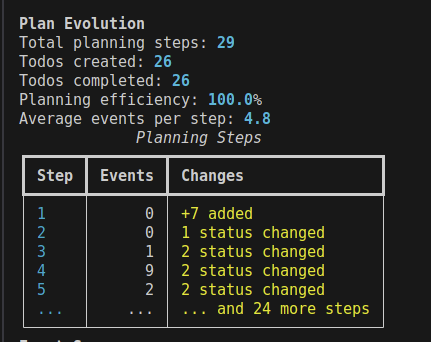
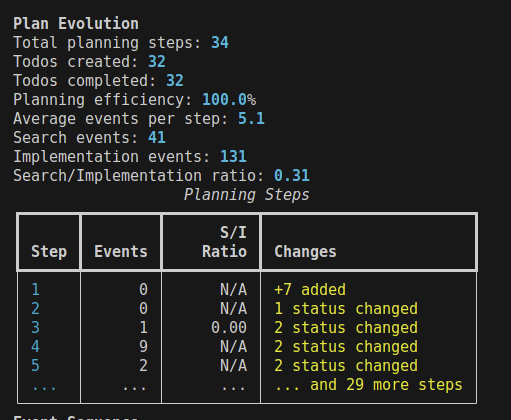
Add naive search to impl ratio based on guessed search tools, excluding custom mcp

Changed region(s): [[0.0, 0.0, 0.935, 1.0]]

diff --git a/src/slopometry/plan_analyzer.py b/src/slopometry/plan_analyzer.py
@@ -4,11 +4,33 @@ import json
 from datetime import datetime
 from typing import Any
 
-from .models import PlanEvolution, PlanStep, TodoItem
+from .models import PlanEvolution, PlanStep, TodoItem, ToolType
 
 
 class PlanAnalyzer:
     """Analyzes TodoWrite events to track plan evolution."""
+    
+    # Define search vs implementation tool categorization
+    SEARCH_TOOLS = {
+        ToolType.GREP, ToolType.GLOB, ToolType.WEB_SEARCH, ToolType.WEB_FETCH,
+        ToolType.READ, ToolType.LS, ToolType.TASK, ToolType.TODO_READ,
+        ToolType.NOTEBOOK_READ, ToolType.MCP_IDE_GET_DIAGNOSTICS,
+        ToolType.MCP_IDE_GET_WORKSPACE_INFO, ToolType.MCP_IDE_GET_FILE_CONTENTS,
+        ToolType.MCP_IDE_SEARCH_FILES, ToolType.MCP_FILESYSTEM_READ,
+        ToolType.MCP_FILESYSTEM_LIST, ToolType.MCP_DATABASE_QUERY,
+        ToolType.MCP_DATABASE_SCHEMA, ToolType.MCP_WEB_SCRAPE,
+        ToolType.MCP_WEB_SEARCH, ToolType.MCP_GITHUB_GET_REPO,
+        ToolType.MCP_GITHUB_LIST_ISSUES, ToolType.MCP_SLACK_LIST_CHANNELS
+    }
+    
+    IMPLEMENTATION_TOOLS = {
+        ToolType.WRITE, ToolType.EDIT, ToolType.MULTI_EDIT, ToolType.BASH,
+        ToolType.TODO_WRITE, ToolType.NOTEBOOK_EDIT, ToolType.EXIT_PLAN_MODE,
+        ToolType.MCP_IDE_EXECUTE_CODE, ToolType.MCP_IDE_CREATE_FILE,
+        ToolType.MCP_IDE_DELETE_FILE, ToolType.MCP_IDE_RENAME_FILE,
+        ToolType.MCP_FILESYSTEM_WRITE, ToolType.MCP_GITHUB_CREATE_ISSUE,
+        ToolType.MCP_SLACK_SEND_MESSAGE
+    }
     
     def __init__(self):
         """Initialize the plan analyzer."""
@@ -16,6 +38,8 @@ class PlanAnalyzer:
         self.plan_steps: list[PlanStep] = []
         self.step_number = 0
         self.events_since_last_todo = 0
+        self.search_events_since_last_todo = 0
+        self.implementation_events_since_last_todo = 0
     
     def analyze_todo_write_event(self, tool_input: dict[str, Any], timestamp: datetime) -> None:
         """Analyze a TodoWrite event and track plan evolution.
@@ -47,10 +71,18 @@ class PlanAnalyzer:
         # Update state
         self.previous_todos = current_todos
         self.events_since_last_todo = 0
+        self.search_events_since_last_todo = 0
+        self.implementation_events_since_last_todo = 0
     
-    def increment_event_count(self) -> None:
+    def increment_event_count(self, tool_type: ToolType | None = None) -> None:
         """Increment the count of events since last TodoWrite."""
         self.events_since_last_todo += 1
+        
+        if tool_type:
+            if tool_type in self.SEARCH_TOOLS:
+                self.search_events_since_last_todo += 1
+            elif tool_type in self.IMPLEMENTATION_TOOLS:
+                self.implementation_events_since_last_todo += 1
     
     def get_plan_evolution(self) -> PlanEvolution:
         """Generate final plan evolution summary.
@@ -93,6 +125,14 @@ class PlanAnalyzer:
         
         final_todo_count = len(self.previous_todos)
         
+        # Calculate total search vs implementation events
+        total_search_events = sum(step.search_events for step in self.plan_steps)
+        total_implementation_events = sum(step.implementation_events for step in self.plan_steps)
+        overall_search_to_implementation_ratio = (
+            total_search_events / total_implementation_events 
+            if total_implementation_events > 0 else 0.0
+        )
+        
         return PlanEvolution(
             total_plan_steps=len(self.plan_steps),
             total_todos_created=total_todos_created,
@@ -100,7 +140,10 @@ class PlanAnalyzer:
             average_events_per_step=average_events_per_step,
             plan_steps=self.plan_steps,
             final_todo_count=final_todo_count,
-            planning_efficiency=planning_efficiency
+            planning_efficiency=planning_efficiency,
+            total_search_events=total_search_events,
+            total_implementation_events=total_implementation_events,
+            overall_search_to_implementation_ratio=overall_search_to_implementation_ratio
         )
     
     def _calculate_plan_step(self, current_todos: dict[str, TodoItem], timestamp: datetime) -> PlanStep | None:
@@ -115,13 +158,22 @@ class PlanAnalyzer:
         """
         self.step_number += 1
         
+        # Calculate search to implementation ratio
+        search_to_implementation_ratio = (
+            self.search_events_since_last_todo / self.implementation_events_since_last_todo
+            if self.implementation_events_since_last_todo > 0 else 0.0
+        )
+        
         # For the first TodoWrite, just record it without diff
         if not self.previous_todos:
             return PlanStep(
                 step_number=self.step_number,
                 events_in_step=self.events_since_last_todo,
                 todos_added=[todo.content for todo in current_todos.values()],
-                timestamp=timestamp
+                timestamp=timestamp,
+                search_events=self.search_events_since_last_todo,
+                implementation_events=self.implementation_events_since_last_todo,
+                search_to_implementation_ratio=search_to_implementation_ratio
             )
         
         # Calculate differences
@@ -160,5 +212,8 @@ class PlanAnalyzer:
             todos_removed=todos_removed,
             todos_status_changed=todos_status_changed,
             todos_content_changed=todos_content_changed,
-            timestamp=timestamp
+            timestamp=timestamp,
+            search_events=self.search_events_since_last_todo,
+            implementation_events=self.implementation_events_since_last_todo,
+            search_to_implementation_ratio=search_to_implementation_ratio
         )

diff --git a/src/slopometry/cli.py b/src/slopometry/cli.py
@@ -319,11 +319,15 @@ def show_session_summary(session_id: str, detailed: bool = False):
         console.print(f"Todos completed: {evolution.total_todos_completed}")
         console.print(f"Planning efficiency: {evolution.planning_efficiency:.1%}")
         console.print(f"Average events per step: {evolution.average_events_per_step:.1f}")
+        console.print(f"Search events: {evolution.total_search_events}")
+        console.print(f"Implementation events: {evolution.total_implementation_events}")
+        console.print(f"Search/Implementation ratio: {evolution.overall_search_to_implementation_ratio:.2f}")
         
         if evolution.plan_steps:
             table = Table(title="Planning Steps")
             table.add_column("Step", style="cyan", width=4)
             table.add_column("Events", justify="right", width=6)
+            table.add_column("S/I Ratio", justify="right", width=8)
             table.add_column("Changes", style="yellow")
             
             for step in evolution.plan_steps[:5]:  # Show first 5 steps
@@ -338,10 +342,11 @@ def show_session_summary(session_id: str, detailed: bool = False):
                     changes.append(f"{len(step.todos_content_changed)} content changed")
                 
                 change_summary = ", ".join(changes) if changes else "Initial plan"
-                table.add_row(str(step.step_number), str(step.events_in_step), change_summary)
+                ratio_display = f"{step.search_to_implementation_ratio:.2f}" if step.implementation_events > 0 else "N/A"
+                table.add_row(str(step.step_number), str(step.events_in_step), ratio_display, change_summary)
             
             if len(evolution.plan_steps) > 5:
-                table.add_row("...", "...", f"... and {len(evolution.plan_steps) - 5} more steps")
+                table.add_row("...", "...", "...", f"... and {len(evolution.plan_steps) - 5} more steps")
             
             console.print(table)
 

diff --git a/src/slopometry/models.py b/src/slopometry/models.py
@@ -132,6 +132,9 @@ class PlanStep(BaseModel):
     todos_status_changed: dict[str, tuple[str, str]] = Field(default_factory=dict)  # content -> (old_status, new_status)
     todos_content_changed: dict[str, tuple[str, str]] = Field(default_factory=dict)  # old_content -> new_content
     timestamp: datetime = Field(default_factory=datetime.now)
+    search_events: int = 0  # Number of search-type tool events
+    implementation_events: int = 0  # Number of implementation-type tool events
+    search_to_implementation_ratio: float = 0.0  # search_events / implementation_events (0 if no impl events)
 
 
 class PlanEvolution(BaseModel):
@@ -144,6 +147,9 @@ class PlanEvolution(BaseModel):
     plan_steps: list[PlanStep] = Field(default_factory=list)
     final_todo_count: int = 0
     planning_efficiency: float = 0.0  # completed_todos / total_todos_created
+    total_search_events: int = 0
+    total_implementation_events: int = 0
+    overall_search_to_implementation_ratio: float = 0.0
 
 
 class SessionStatistics(BaseModel):

diff --git a/src/slopometry/database.py b/src/slopometry/database.py
@@ -111,7 +111,7 @@ class EventDatabase:
                 analyzer.analyze_todo_write_event(tool_input, event.timestamp)
         elif event.event_type == HookEventType.POST_TOOL_USE:
             # Only count PostToolUse events to avoid double-counting
-            analyzer.increment_event_count()
+            analyzer.increment_event_count(event.tool_type)
 
     def get_session_events(self, session_id: str) -> list[HookEvent]:
         """Get all events for a session."""
@@ -269,7 +269,7 @@ class EventDatabase:
                     analyzer.analyze_todo_write_event(tool_input, event.timestamp)
             elif event.event_type == HookEventType.POST_TOOL_USE:
                 # Only count PostToolUse events to avoid double-counting
-                analyzer.increment_event_count()
+                analyzer.increment_event_count(event.tool_type)
         
         return analyzer.get_plan_evolution()
 
